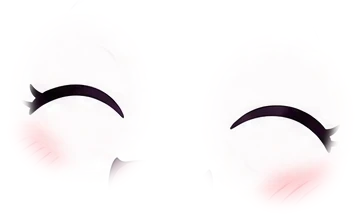
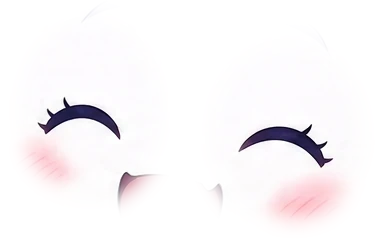
Demo47 ghosts: clean blinks for the white and wisp ghosts (Seedance eye redraw; patch covers the whole redrawn eye)

diff --git a/demos/all-ages/Demo47_GhostLantern/media/layers.js b/demos/all-ages/Demo47_GhostLantern/media/layers.js
@@ -384,12 +384,12 @@ window.MOHEAT_LAYERS = {
      },
      "patches": [
       {
-       "src": "art/ghost_white_eyes.webp?v=acbcfba1",
+       "src": "art/ghost_white_eyes.webp?v=7206118f",
        "rect": [
-        123,
-        143,
-        363,
-        215
+        113,
+        129,
+        384,
+        243
        ],
        "kind": "eyes"
       }
@@ -413,12 +413,12 @@ window.MOHEAT_LAYERS = {
      },
      "patches": [
       {
-       "src": "art/ghost_wisp_eyes.webp?v=7b129391",
+       "src": "art/ghost_wisp_eyes.webp?v=9d9aaa45",
        "rect": [
-        72,
-        477,
-        335,
-        208
+        61,
+        464,
+        357,
+        234
        ],
        "kind": "eyes"
       }
@@ -725,12 +725,12 @@ window.MOHEAT_LAYERS = {
      },
      "patches": [
       {
-       "src": "art/ghost_white_eyes.webp?v=acbcfba1",
+       "src": "art/ghost_white_eyes.webp?v=7206118f",
        "rect": [
-        123,
-        143,
-        363,
-        215
+        113,
+        129,
+        384,
+        243
        ],
        "kind": "eyes"
       }
@@ -754,12 +754,12 @@ window.MOHEAT_LAYERS = {
      },
      "patches": [
       {
-       "src": "art/ghost_wisp_eyes.webp?v=7b129391",
+       "src": "art/ghost_wisp_eyes.webp?v=9d9aaa45",
        "rect": [
-        72,
-        477,
-        335,
-        208
+        61,
+        464,
+        357,
+        234
        ],
        "kind": "eyes"
       }
@@ -1474,12 +1474,12 @@ window.MOHEAT_LAYERS = {
      },
      "patches": [
       {
-       "src": "art/ghost_white_eyes.webp?v=acbcfba1",
+       "src": "art/ghost_white_eyes.webp?v=7206118f",
        "rect": [
-        123,
-        143,
-        363,
-        215
+        113,
+        129,
+        384,
+        243
        ],
        "kind": "eyes"
       }
@@ -1503,12 +1503,12 @@ window.MOHEAT_LAYERS = {
      },
      "patches": [
       {
-       "src": "art/ghost_wisp_eyes.webp?v=7b129391",
+       "src": "art/ghost_wisp_eyes.webp?v=9d9aaa45",
        "rect": [
-        72,
-        477,
-        335,
-        208
+        61,
+        464,
+        357,
+        234
        ],
        "kind": "eyes"
       }
